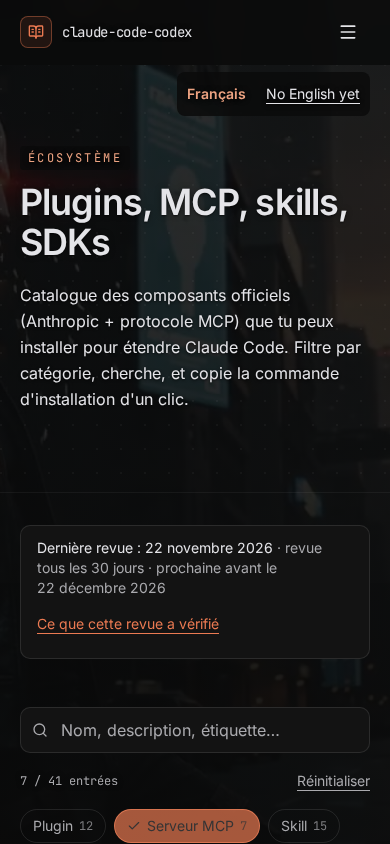
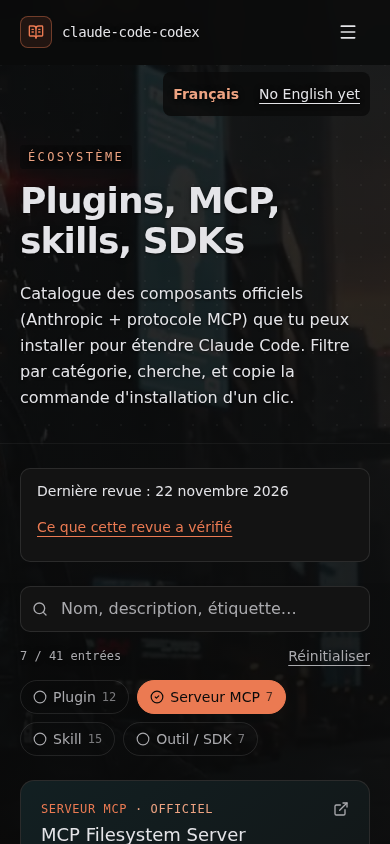
fix(L114): /ecosystem — bascules immobiles de 100 à 200 %, début de liste visible à 390 px, focus après Réinitialiser
Corrige les deux revues non conformes de L114 :
- majeur (code) : à police 200 %, l'apparition de « Réinitialiser » faisait
  descendre les 4 bascules de 32 px. Le bouton est désormais toujours rendu,
  invisible sans filtre (hors arbre a11y et parcours clavier) : la ligne du
  compteur garde la même hauteur à toute taille de police.
- majeur (UX) : à 390 × 844, la première carte était à 917 px. Marge basse
  de l'en-tête réduite sous 640 px (PageHero compactBottom), encart de revue
  sur une ligne sous 640 px (RevueContenu compact : rythme et prochaine
  revue en tête du panneau dépliable), marges resserrées : carte à 780 px,
  son étiquette visible sans défiler après chaque clic.
- mineur : « Réinitialiser » à 24 px de haut (min-h-6).
- mineur antérieur : après « Réinitialiser » (ou « Réinitialiser les
  filtres »), le focus va au champ de recherche, plus au <body> (WCAG 2.4.3).
- mineur antérieur : bascule de même largeur pressée ou non (cercle vide /
  cercle coché) : Skill ne change plus de ligne à 112,5 %.

Test l114 étendu : 390 et 1440 px aux polices 100, 112,5 et 200 %, 320 px à
125 et 200 % ; aucune bascule ne bouge (clics et recherche), compteur dans la
vue ; 1re carte visible sans défiler à 390 × 844 ; hauteur et focus de
« Réinitialiser ». Rouge sur 551b323 (10/10), vert après. Nouveauté et
capture mises à jour.

diff --git a/frontend/src/components/site/EcosystemCatalog.vue b/frontend/src/components/site/EcosystemCatalog.vue
@@ -1,7 +1,7 @@
 <script setup lang="ts">
 import { ref, computed } from "vue";
 import { espacesOrdinaires } from "@/lib/jour-mois.mjs";
-import { Search, Tag, ExternalLink, Check } from "lucide-vue-next";
+import { Search, Tag, ExternalLink, Circle, CircleCheck } from "lucide-vue-next";
 import type {
   EcosystemEntry,
   EcosystemCategory,
@@ -27,6 +27,10 @@ const showFilters = computed(() => props.entries.length >= props.filtersFrom);
 const categories: EcosystemCategory[] = ["plugin", "mcp", "skill", "tool"];
 const selectedCategories = ref<Set<EcosystemCategory>>(new Set());
 const searchQuery = ref("");
+const searchInput = ref<HTMLInputElement | null>(null);
+const hasFilters = computed(
+  () => selectedCategories.value.size > 0 || searchQuery.value.trim() !== "",
+);
 const copiedId = ref<string | null>(null);
 const copiedMessage = ref("");
 
@@ -78,9 +82,12 @@ function toggleCategory(c: EcosystemCategory) {
   selectedCategories.value = next;
 }
 
+// L114 (WCAG 2.4.3) : le bouton pressé disparaît (ou devient invisible) une fois les filtres vidés ;
+// le focus irait au <body>. Il revient au champ de recherche, d'où l'on refiltre.
 function clearFilters() {
   selectedCategories.value = new Set();
   searchQuery.value = "";
+  searchInput.value?.focus();
 }
 
 async function copyInstall(entry: EcosystemEntry) {
@@ -105,13 +112,14 @@ async function copyInstall(entry: EcosystemEntry) {
   <div>
     <p role="status" class="sr-only">{{ copiedMessage }}</p>
 
-    <div v-if="showFilters" class="flex flex-col gap-4 mb-8">
+    <div v-if="showFilters" class="flex flex-col gap-3 mb-6">
       <div class="relative">
         <Search
           :size="16"
           class="absolute left-3 top-1/2 -translate-y-1/2 text-ink-muted"
         />
         <input
+          ref="searchInput"
           v-model="searchQuery"
           type="search"
           :aria-label="searchLabel"
@@ -120,19 +128,22 @@ async function copyInstall(entry: EcosystemEntry) {
         />
       </div>
 
-      <!-- L114 : le compteur et « Réinitialiser » vivent AU-DESSUS des bascules, sur une ligne
-           toujours présente. À 390 px, les bascules arrivent en bas de l'écran : un compteur placé
-           dessous (et la liste) restait hors de la vue après le clic. Ici, quand le bouton cliqué
-           est visible, le résultat de son geste l'est aussi, et rien ne bouge quand « Réinitialiser »
-           apparaît ou disparaît (hauteur de ligne réservée). -->
-      <div class="flex flex-wrap items-center justify-between gap-x-4 gap-y-1 min-h-6">
+      <!-- L114 : le compteur et « Réinitialiser » vivent AU-DESSUS des bascules. À 390 px, les
+           bascules arrivent en bas de l'écran : un compteur placé dessous (et la liste) restait hors
+           de la vue après le clic. « Réinitialiser » est TOUJOURS rendu (invisible sans filtre, donc
+           hors de l'arbre d'accessibilité et du parcours clavier) : la ligne a la même hauteur avec
+           ou sans lui, à toute taille de police, même quand il passe sous le compteur (200 %). -->
+      <div class="flex flex-wrap items-center justify-between gap-x-4 gap-y-1">
         <p role="status" class="font-mono text-xs text-ink-muted">
           {{ filteredEntries.length }} / {{ entries.length }} entrées
         </p>
         <button
-          v-if="selectedCategories.size > 0 || searchQuery.trim() !== ''"
           type="button"
-          class="text-sm text-ink-muted hover:text-claude underline underline-offset-4 cursor-pointer"
+          data-reinitialiser
+          :class="[
+            'inline-flex items-center min-h-6 text-sm text-ink-muted hover:text-claude underline underline-offset-4 cursor-pointer',
+            !hasFilters && 'invisible',
+          ]"
           @click="clearFilters"
         >
           Réinitialiser
@@ -153,7 +164,10 @@ async function copyInstall(entry: EcosystemEntry) {
           ]"
           @click="toggleCategory(c)"
         >
-          <Check v-if="selectedCategories.has(c)" :size="14" />
+          <!-- L114 : même largeur pressé ou non (cercle vide / cercle coché, 14 px) : une bascule
+               qui s'élargissait au clic (coche ajoutée) changeait de ligne à 112,5 %. -->
+          <CircleCheck v-if="selectedCategories.has(c)" :size="14" aria-hidden="true" class="shrink-0" />
+          <Circle v-else :size="14" aria-hidden="true" class="shrink-0" />
           <span>{{ CATEGORY_LABELS[c] }}</span>
           <span class="font-mono text-xs opacity-70">{{ counts[c] }}</span>
         </button>

diff --git a/docs/nouveautes/2026-11-28-sur-telephone-le-catalogue-ecosysteme-montre-le-resultat-dun.md b/docs/nouveautes/2026-11-28-sur-telephone-le-catalogue-ecosysteme-montre-le-resultat-dun.md
@@ -3,10 +3,11 @@ title: "Sur téléphone, le catalogue Écosystème montre le résultat d'un filt
 date: 2026-11-28
 created: 2026-11-28T12:35+01:00
 lots: [L114]
-captures: [{ file: captures/L114-ecosystem-filtres-390.png, alt: "Page Écosystème sur un téléphone de 390 px, filtre Serveur MCP choisi : juste au-dessus des boutons de filtre, le compteur indique 7 / 41 entrées, à côté du lien Réinitialiser" }]
+captures: [{ file: captures/L114-ecosystem-filtres-390.png, alt: "Page Écosystème sur un téléphone de 390 px, filtre Serveur MCP choisi : au-dessus des boutons de filtre, le compteur indique 7 / 41 entrées à côté du lien Réinitialiser, et la première carte, MCP Filesystem Server, apparaît en bas de l'écran" }]
 ---
-Sur la page Écosystème, le compteur « 7 / 41 entrées » et le lien « Réinitialiser » sont passés au-dessus des boutons de filtre Plugin, Serveur MCP, Skill et Outil / SDK.
+Sur la page Écosystème, le compteur « 7 / 41 entrées » et le lien « Réinitialiser » sont passés au-dessus des boutons de filtre Plugin, Serveur MCP, Skill et Outil / SDK, et le haut de la page a été resserré sur téléphone.
 
-- **Effet visible sans défiler** : sur un téléphone, les boutons de filtre arrivent en bas de l'écran et le compteur, placé dessous, en sortait ; il reste maintenant à l'écran après chaque clic, pour choisir un filtre comme pour l'enlever.
-- **Rien ne bouge sous le doigt** : le bouton touché reste à sa place ; la ligne du compteur est toujours là, avec ou sans « Réinitialiser ».
-- **Vérifié** sur la page construite, à 390 et à 1440 px de large, pour chacun des quatre filtres.
+- **Effet visible sans défiler** : sur un téléphone, après chaque clic sur un filtre, pour le choisir comme pour l'enlever, le compteur et le début de la liste filtrée restent à l'écran.
+- **Rien ne bouge sous le doigt** : aucun bouton de filtre ne change de place quand « Réinitialiser » apparaît ou disparaît, ni quand on en presse un, même avec le texte agrandi jusqu'à 200 % ; chaque bouton porte un petit cercle, coché quand le filtre est choisi.
+- **Clavier** : après « Réinitialiser », le curseur revient dans le champ de recherche au lieu de se perdre en haut de la page ; le lien fait 24 px de haut.
+- **Vérifié** : sur la page construite, à 320, 390 et 1440 px de large, texte à 100, 112,5, 125 et 200 %, pour chacun des quatre filtres des deux catalogues.
